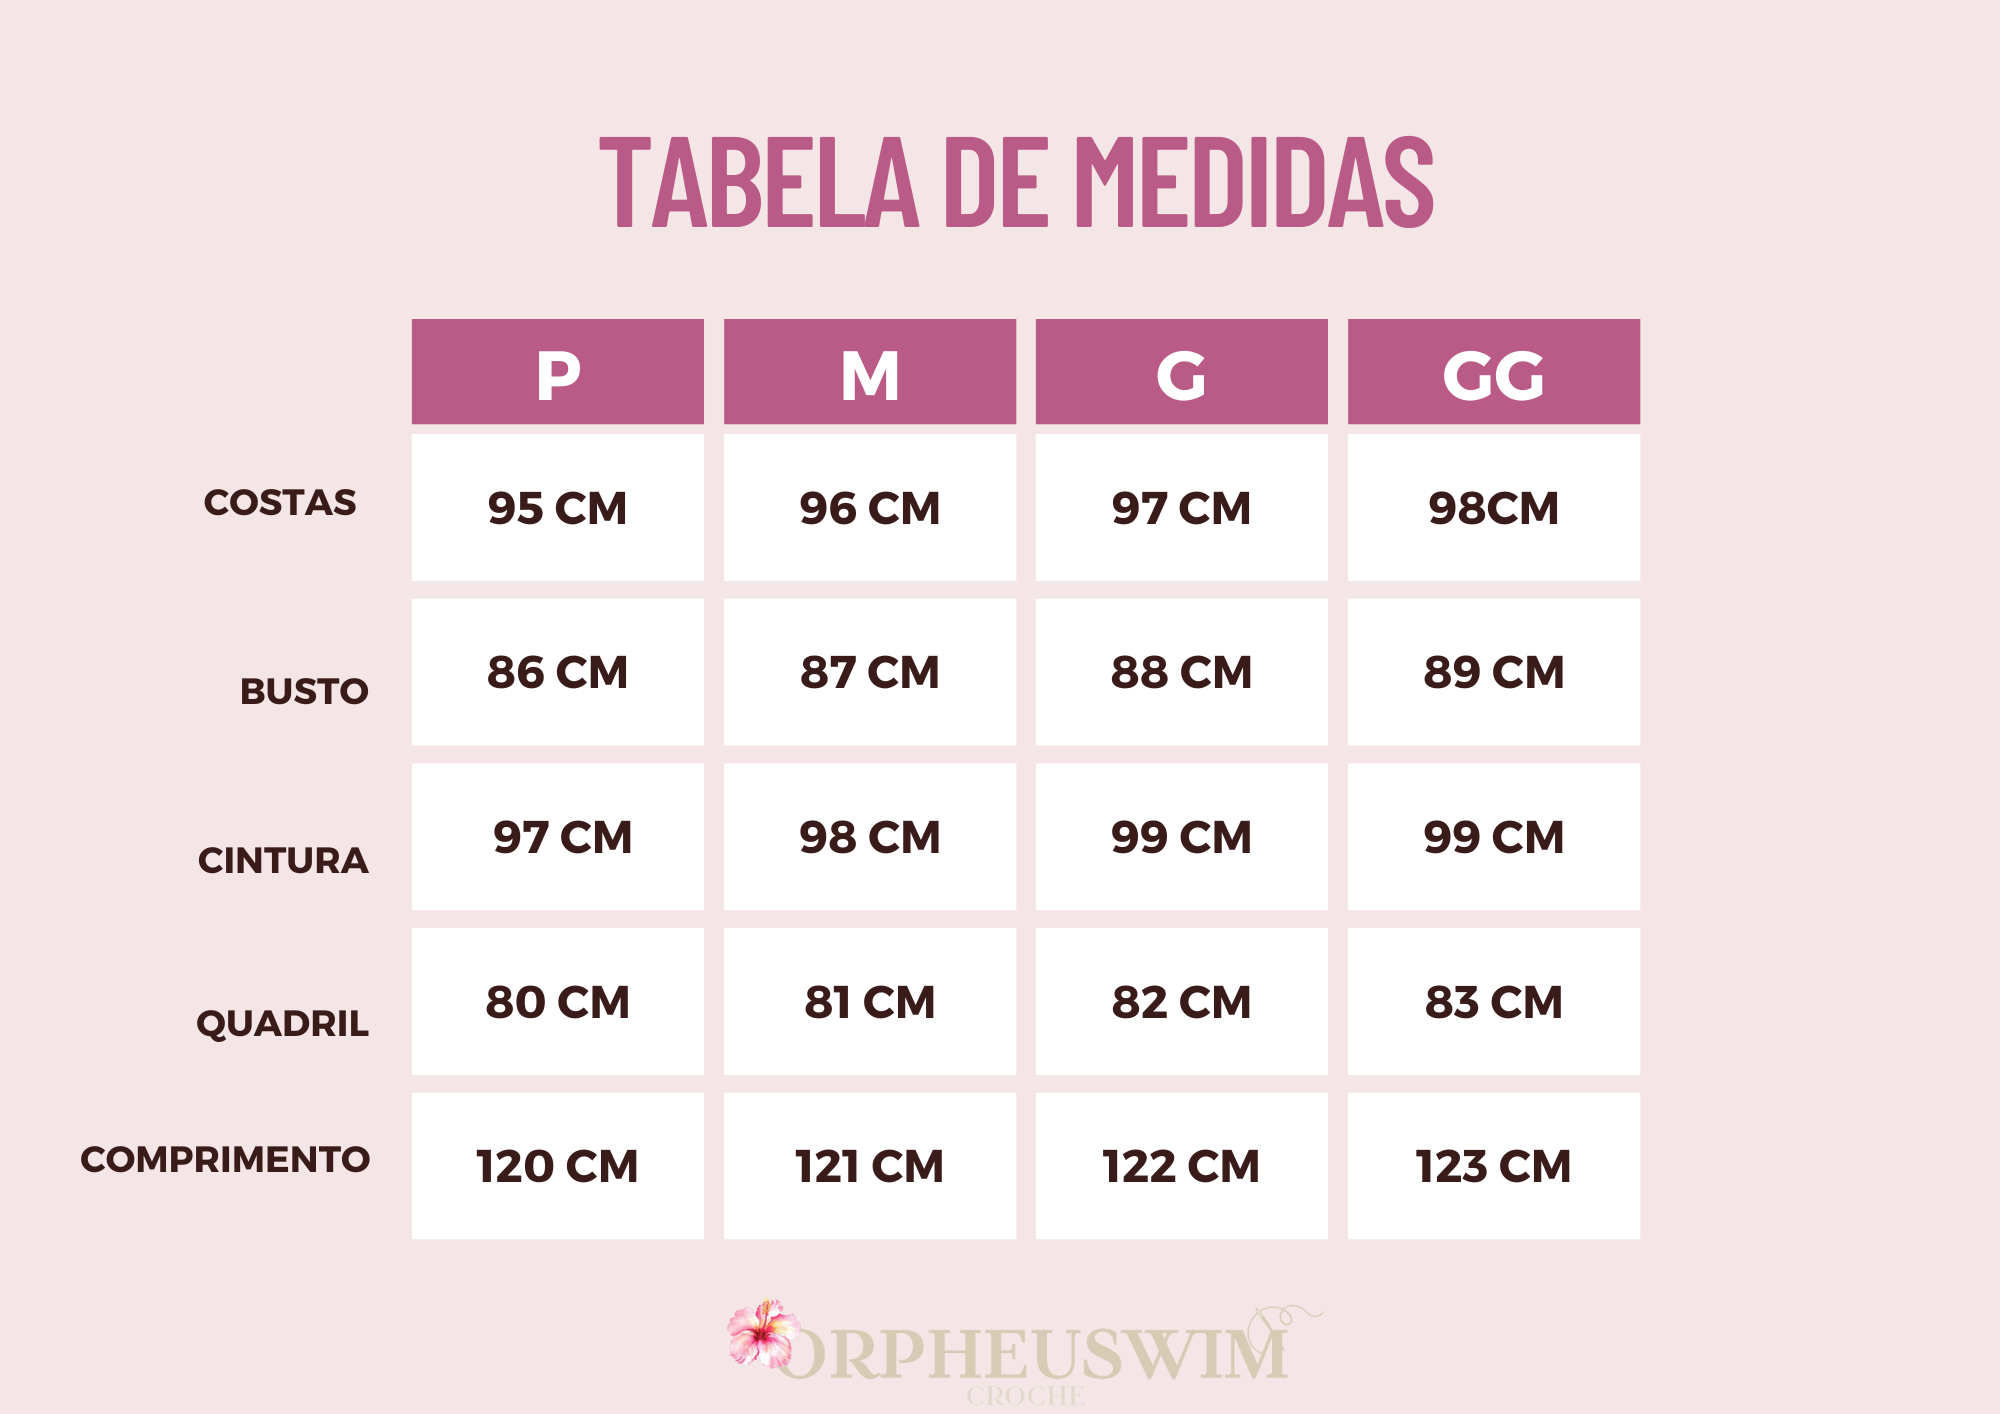
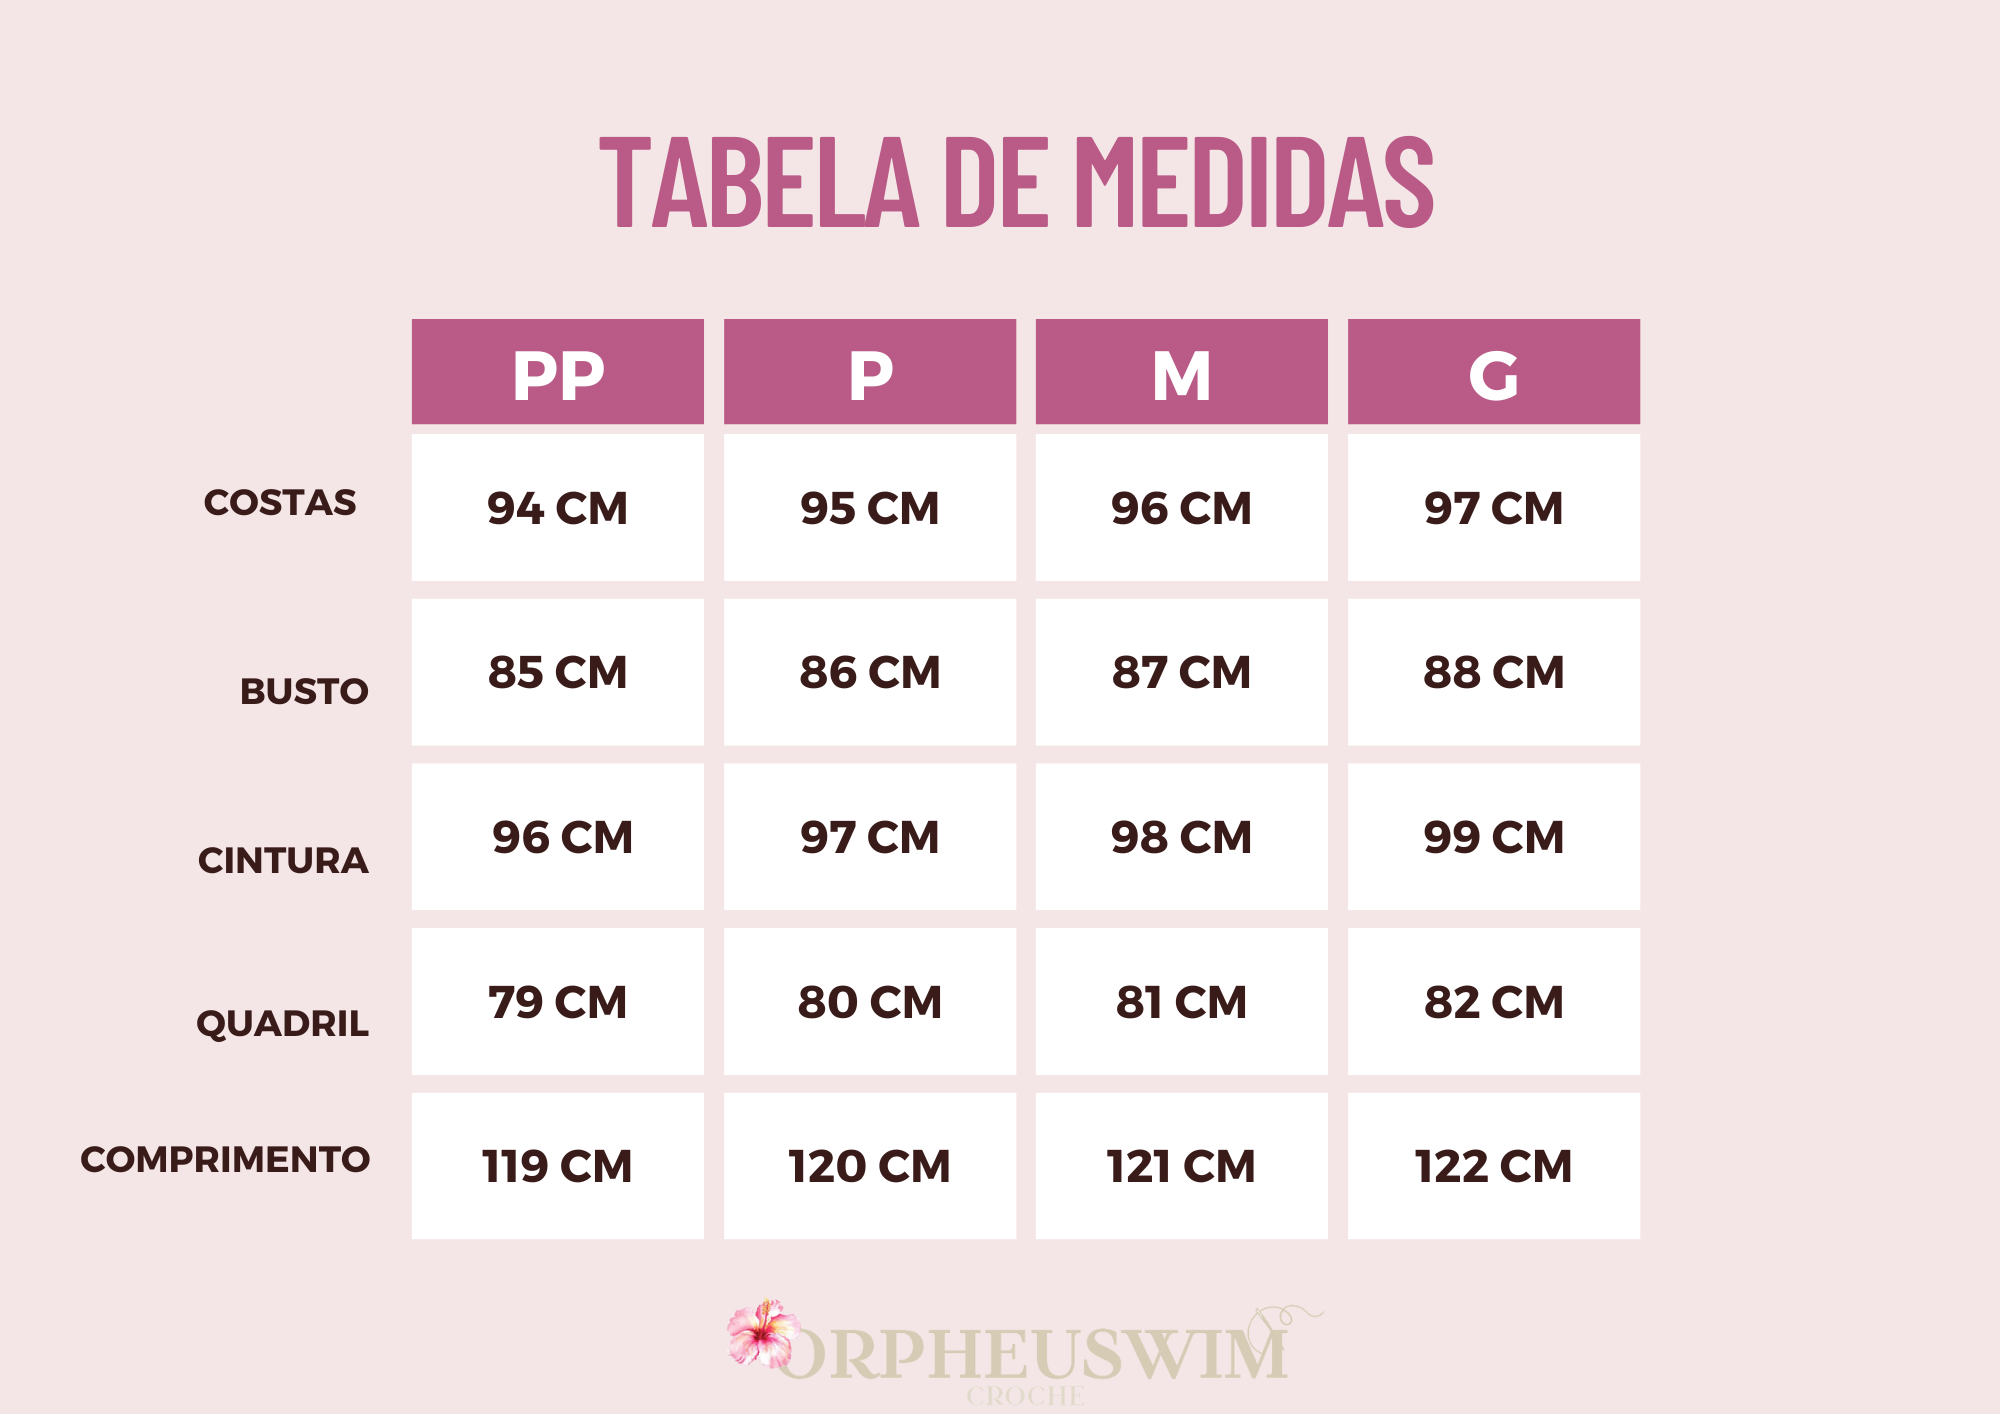
some details and new backend url

diff --git a/src/pages/Home/Home.tsx b/src/pages/Home/Home.tsx
@@ -7,6 +7,7 @@ import 'swiper/swiper-bundle.css';
 import { Navigation, Pagination } from 'swiper/modules';
 import { useNavigate } from "react-router-dom";
 import { getReleases } from '../../services/apiConnect';
+import { FaWhatsapp } from "react-icons/fa";
 
 
 
@@ -84,11 +85,17 @@ export default function Home () {
                   <h1>Sua ideia, nossa <span>arte.</span></h1>
                   <p>Criamos peças <span>exclusivas</span>, feitas <span>sob medida</span> para você brilhar em qualquer ocasião. Do dia a dia aos momentos especiais, damos vida à sua inspiração com estilo único e personalizado. Fale com a gente no WhatsApp e vamos transformar suas ideias em realidade!</p>
                   <p>Ainda não sabe medir?</p>
-                  <button onClick={() => {
-                    navigate("/measure")
-                    }}>
-                    Saiba mais
-                  </button>
+                  <div className="buttons-contact-container">
+                    <button onClick={() => {
+                      navigate("/measure")
+                      }}>
+                      Saiba mais
+                    </button>
+
+                    <a href="https://wa.me/5521983103439" target="_blank">
+                        <FaWhatsapp className="contact-icon-home" color="#555" size={35}/>
+                    </a>
+                  </div>
                 </div>
 
                 <div className="image-large">

diff --git a/src/pages/Purchase/Purchase.tsx b/src/pages/Purchase/Purchase.tsx
@@ -15,7 +15,7 @@ export default function Purchase() {
     const [showModal, setShowModal] = useState(false);
 
 
-    const sizes = ["P", "M", "G", "GG"];
+    const sizes = ["PP", "P", "M", "G"];
     const colors = ["Branco", "Preto", "Azul", "Vermelho", "Escolher"];
 
     const navigate = useNavigate();
@@ -85,7 +85,7 @@ export default function Purchase() {
                     <div className="selectors">
                         {/* Bolinhas de Tamanho */}
                         <div className="size-selector">
-                            <label className="label"><h1>TAMANHO</h1> <span>(sb = sob medida)</span></label>
+                            <label className="label"><h1>TAMANHO</h1> </label>
                             <div className="size-buttons">
                                 {sizes.map((s) => (
                                     <button

diff --git a/src/services/config.js b/src/services/config.js
@@ -2,7 +2,7 @@ import axios from "axios"
 
 
 const api = axios.create({
-  baseURL: "http://localhost:8080/api", 
+  baseURL: process.env.REACT_APP_API_URL, 
 });
 
 // Interceptor para adicionar token a cada requisição

diff --git a/src/pages/Home/Home.css b/src/pages/Home/Home.css
@@ -87,6 +87,12 @@ main {
     
 }
 
+.orders-container .buttons-contact-container {
+    display: flex;
+
+    align-items: center;
+    gap: 10px;
+}
 
 .orders-container  .orders-text {
     width: 900px;
